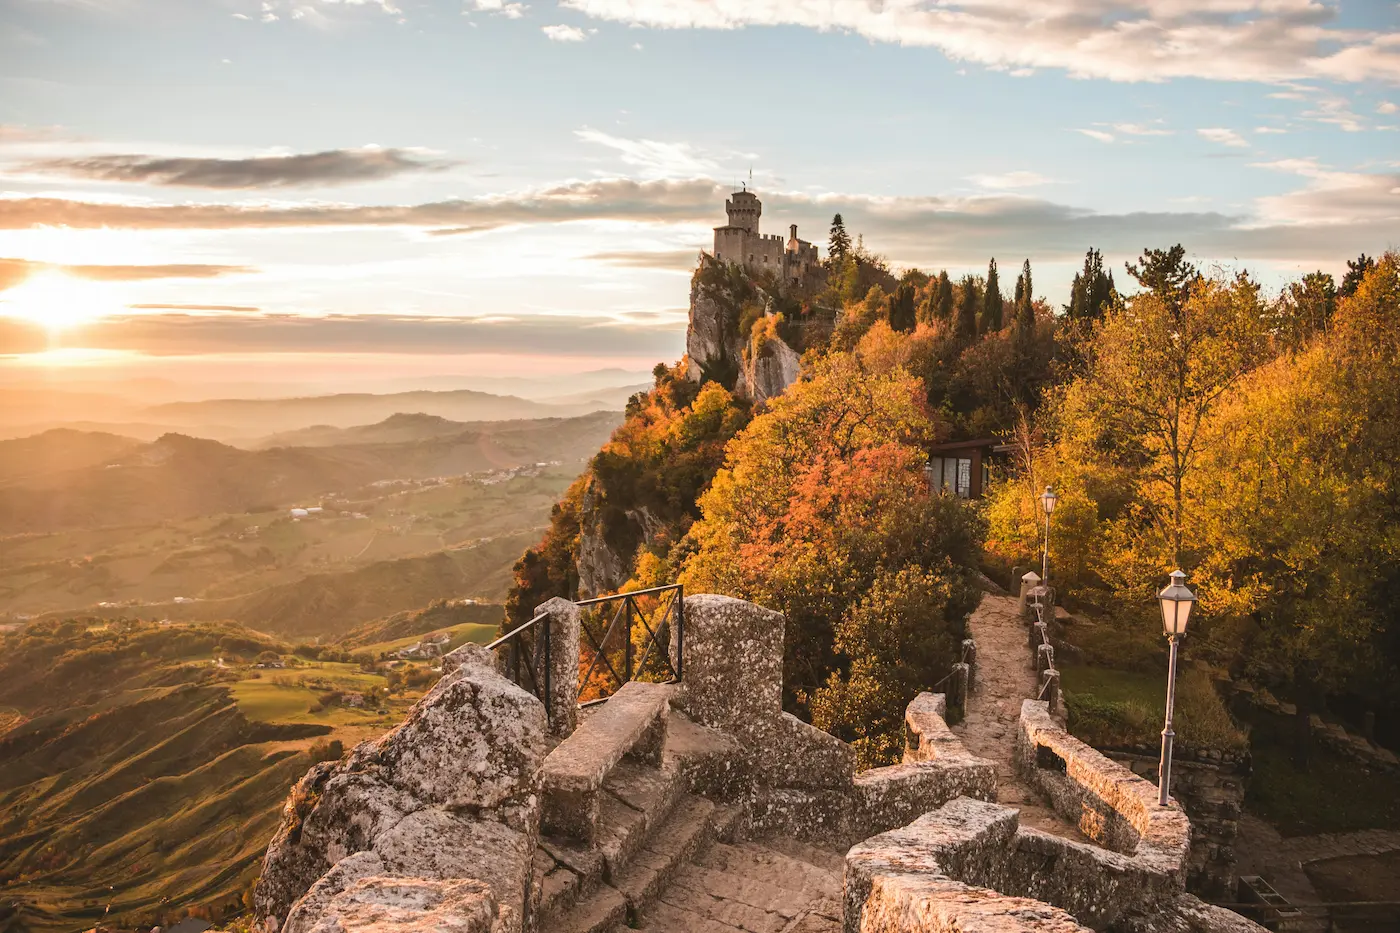
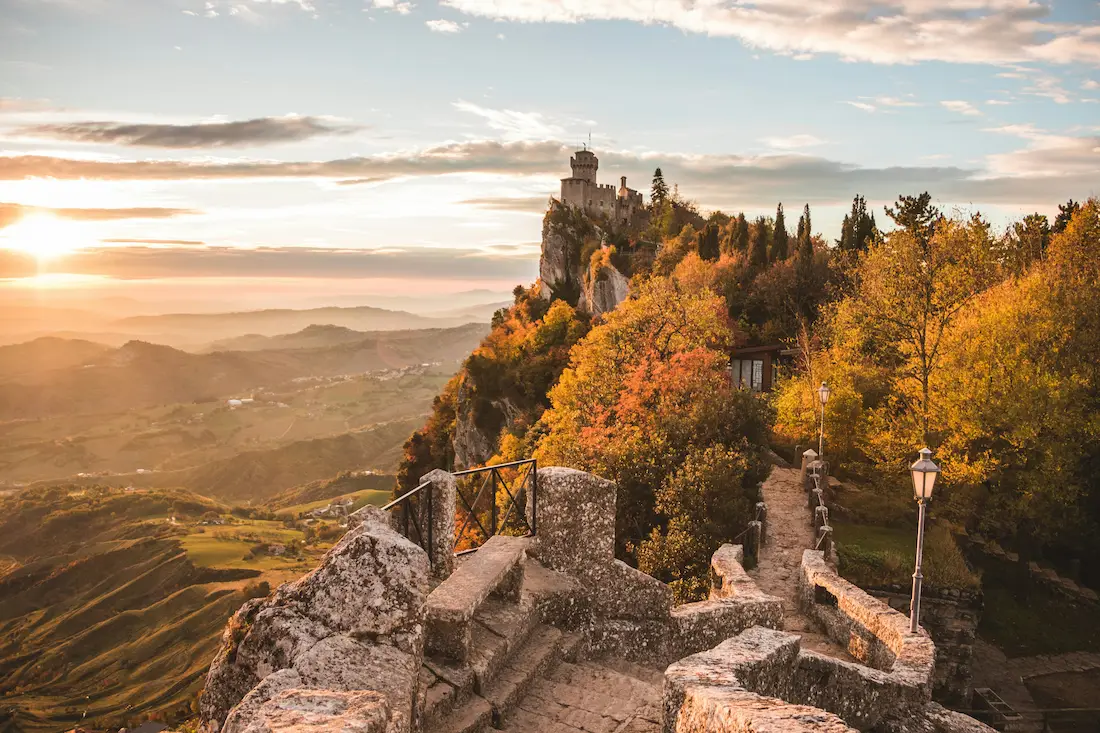
Update Images

diff --git a/scripts/place.js b/scripts/place.js
@@ -1,10 +1,10 @@
-// ---------------- Footer ----------------
+// --- Footer -- //
 const today = new Date();
 document.getElementById("currentyear").innerHTML = `©${today.getFullYear()}`;
 document.querySelector("#lastmodified").textContent = `Last modified: ${document.lastModified}`;
 
-// ---------------- Weather (Open-Meteo, no API key) ----------------
-// Coordinates for San Marino (approx. 43.935, 12.447)
+// -- Weather -- //
+// -- Coordinates for San Marino - 43.935, 12.447 -- //
 (async () => {
   try {
     const url = "https://api.open-meteo.com/v1/forecast?latitude=43.935&longitude=12.447&current=temperature_2m,relative_humidity_2m,wind_speed_10m,weather_code&timezone=auto";

diff --git a/place.html b/place.html
@@ -35,7 +35,7 @@
             <picture>
                 <source srcset="images/san-marino-hero-small.webp" media="(max-width: 500px)">
                 <source srcset="images/san-marino-hero-medium.webp" media="(max-width: 1000px)">
-                <img src="images/san-marino-hero-large.webp" alt="View of San Marino city and towers" width="1400" height="933">
+                <img src="images/san-marino-hero-large.webp" alt="View of San Marino city and towers" width="1100" height="733">
             </picture>
             <figcaption>Guaita Tower Overlooking San Marino</figcaption>
         </figure>

diff --git a/styles/place.css b/styles/place.css
@@ -54,7 +54,7 @@ body {
 
 /* -- Main -- */
 main {
-    max-width: 1400px;
+    max-width: 1100px;
     margin: 0 auto;
     padding: 1rem;
     display: grid;
